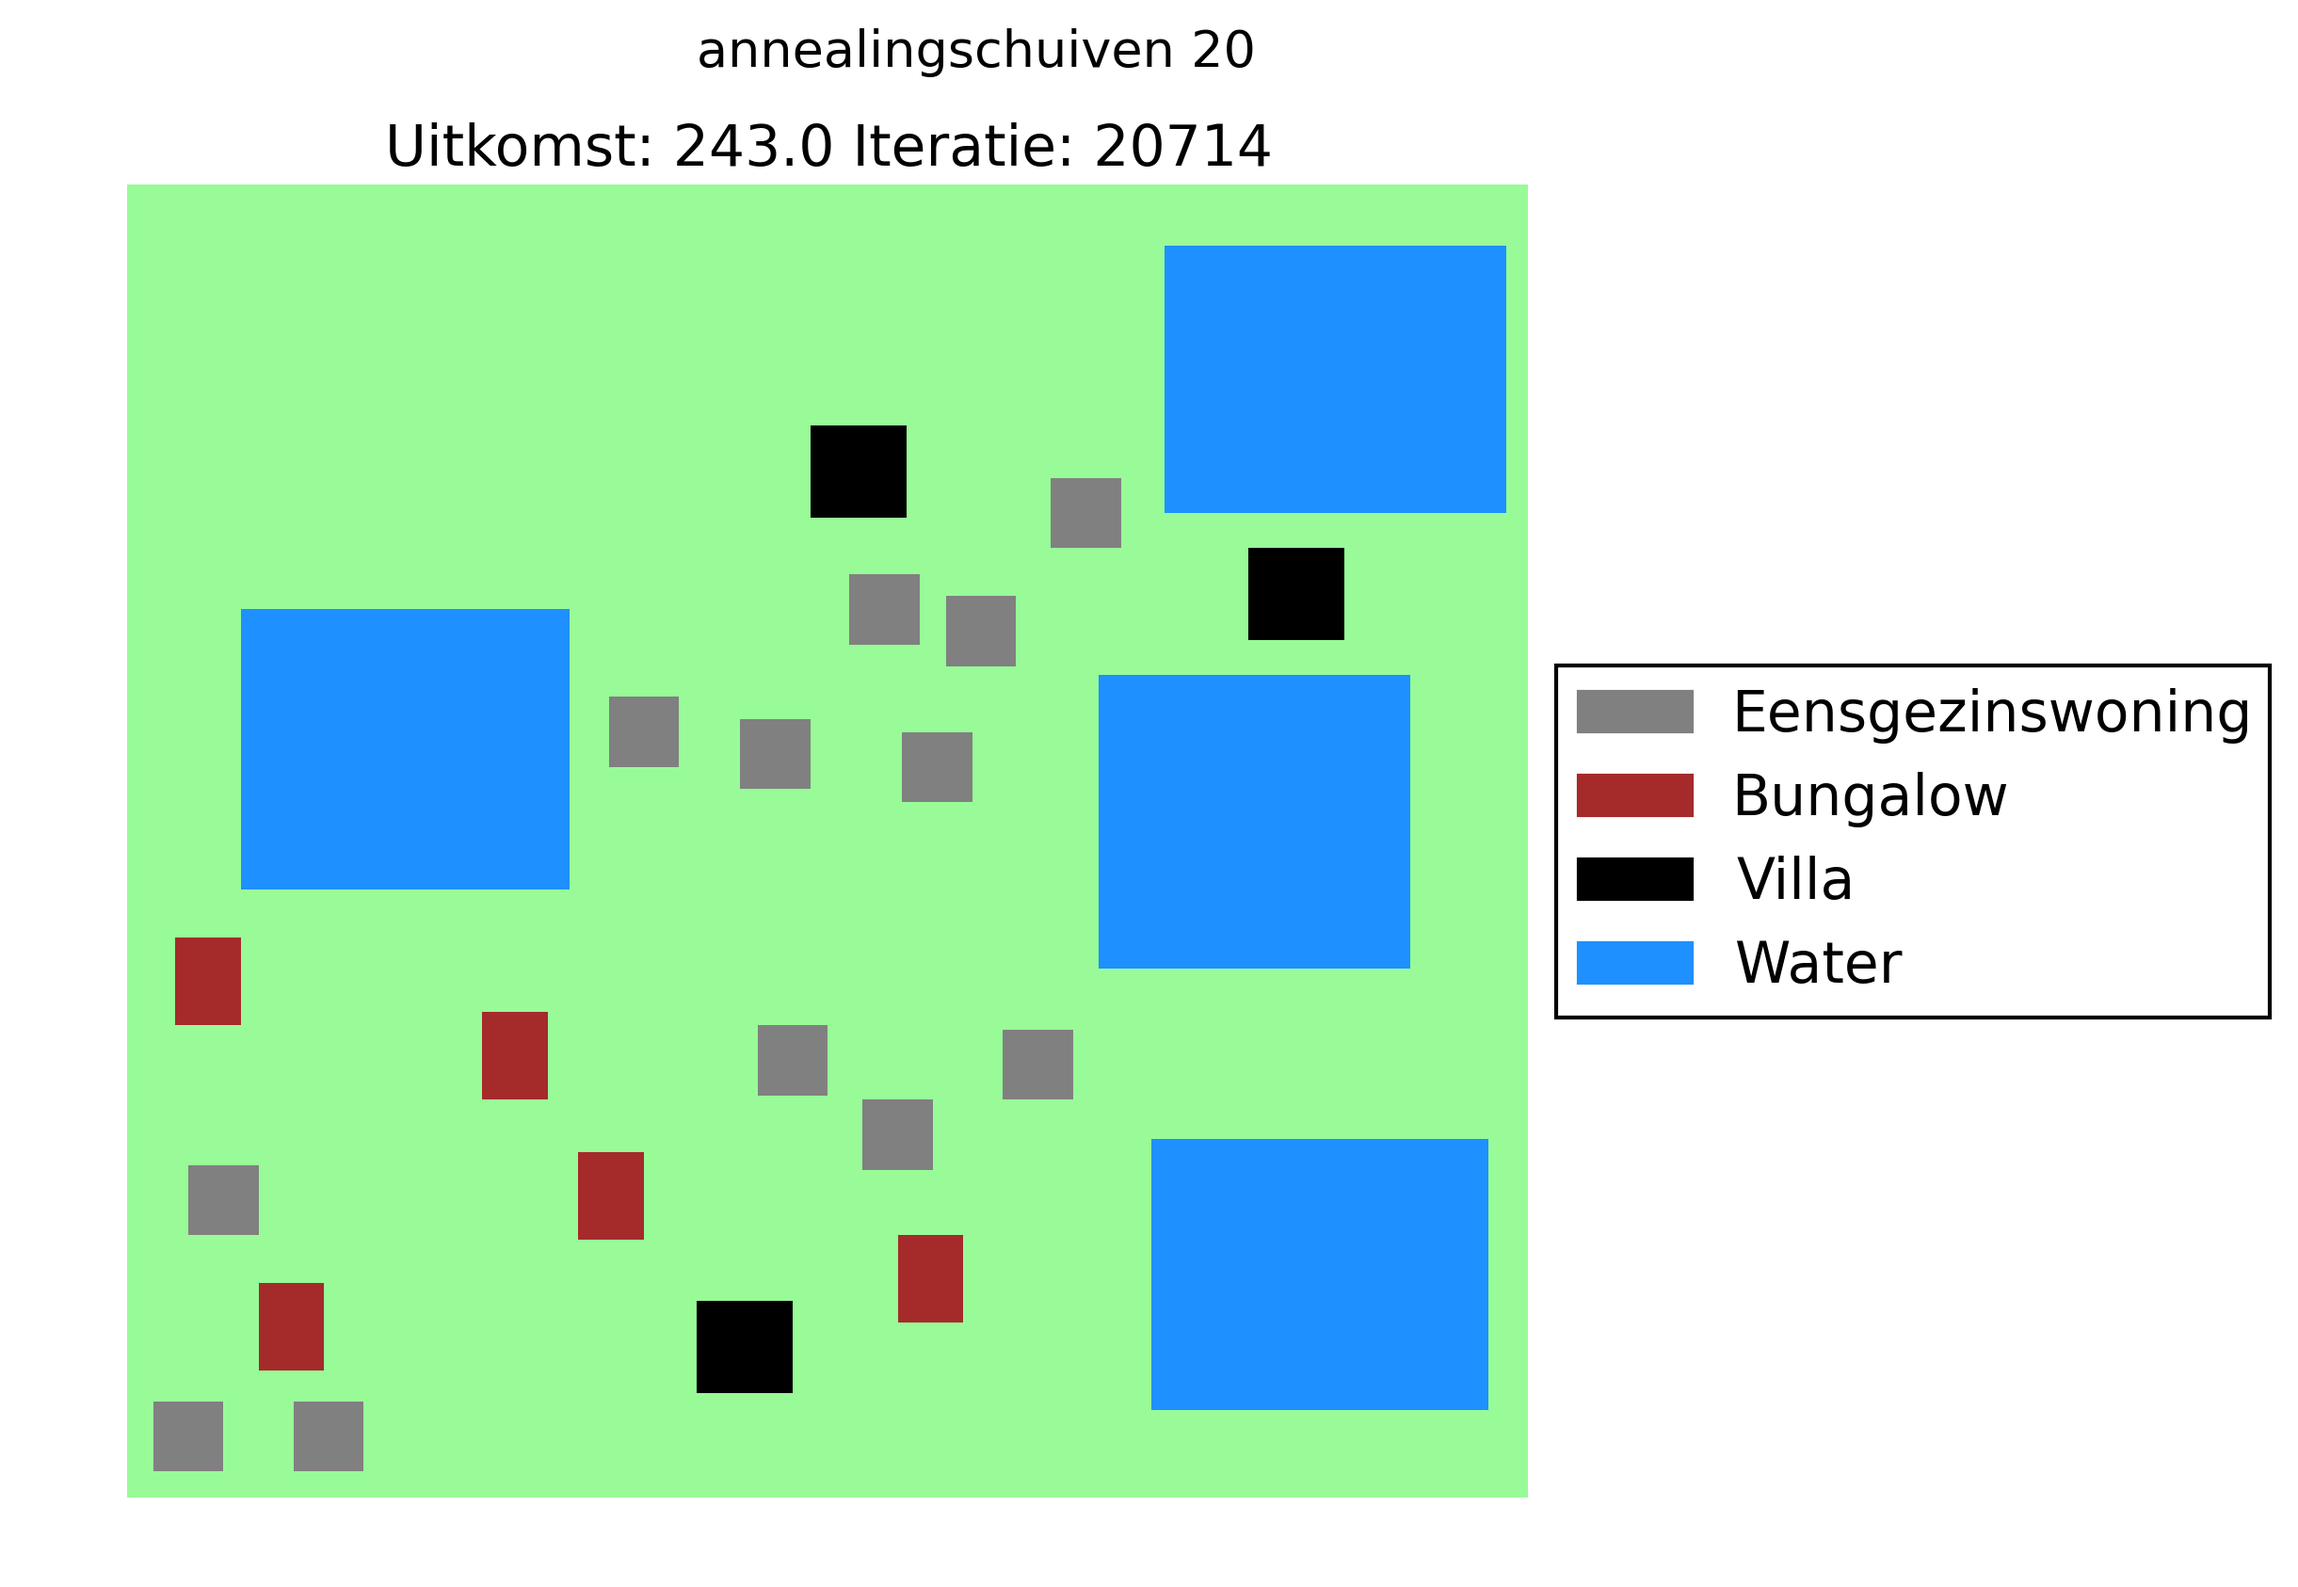
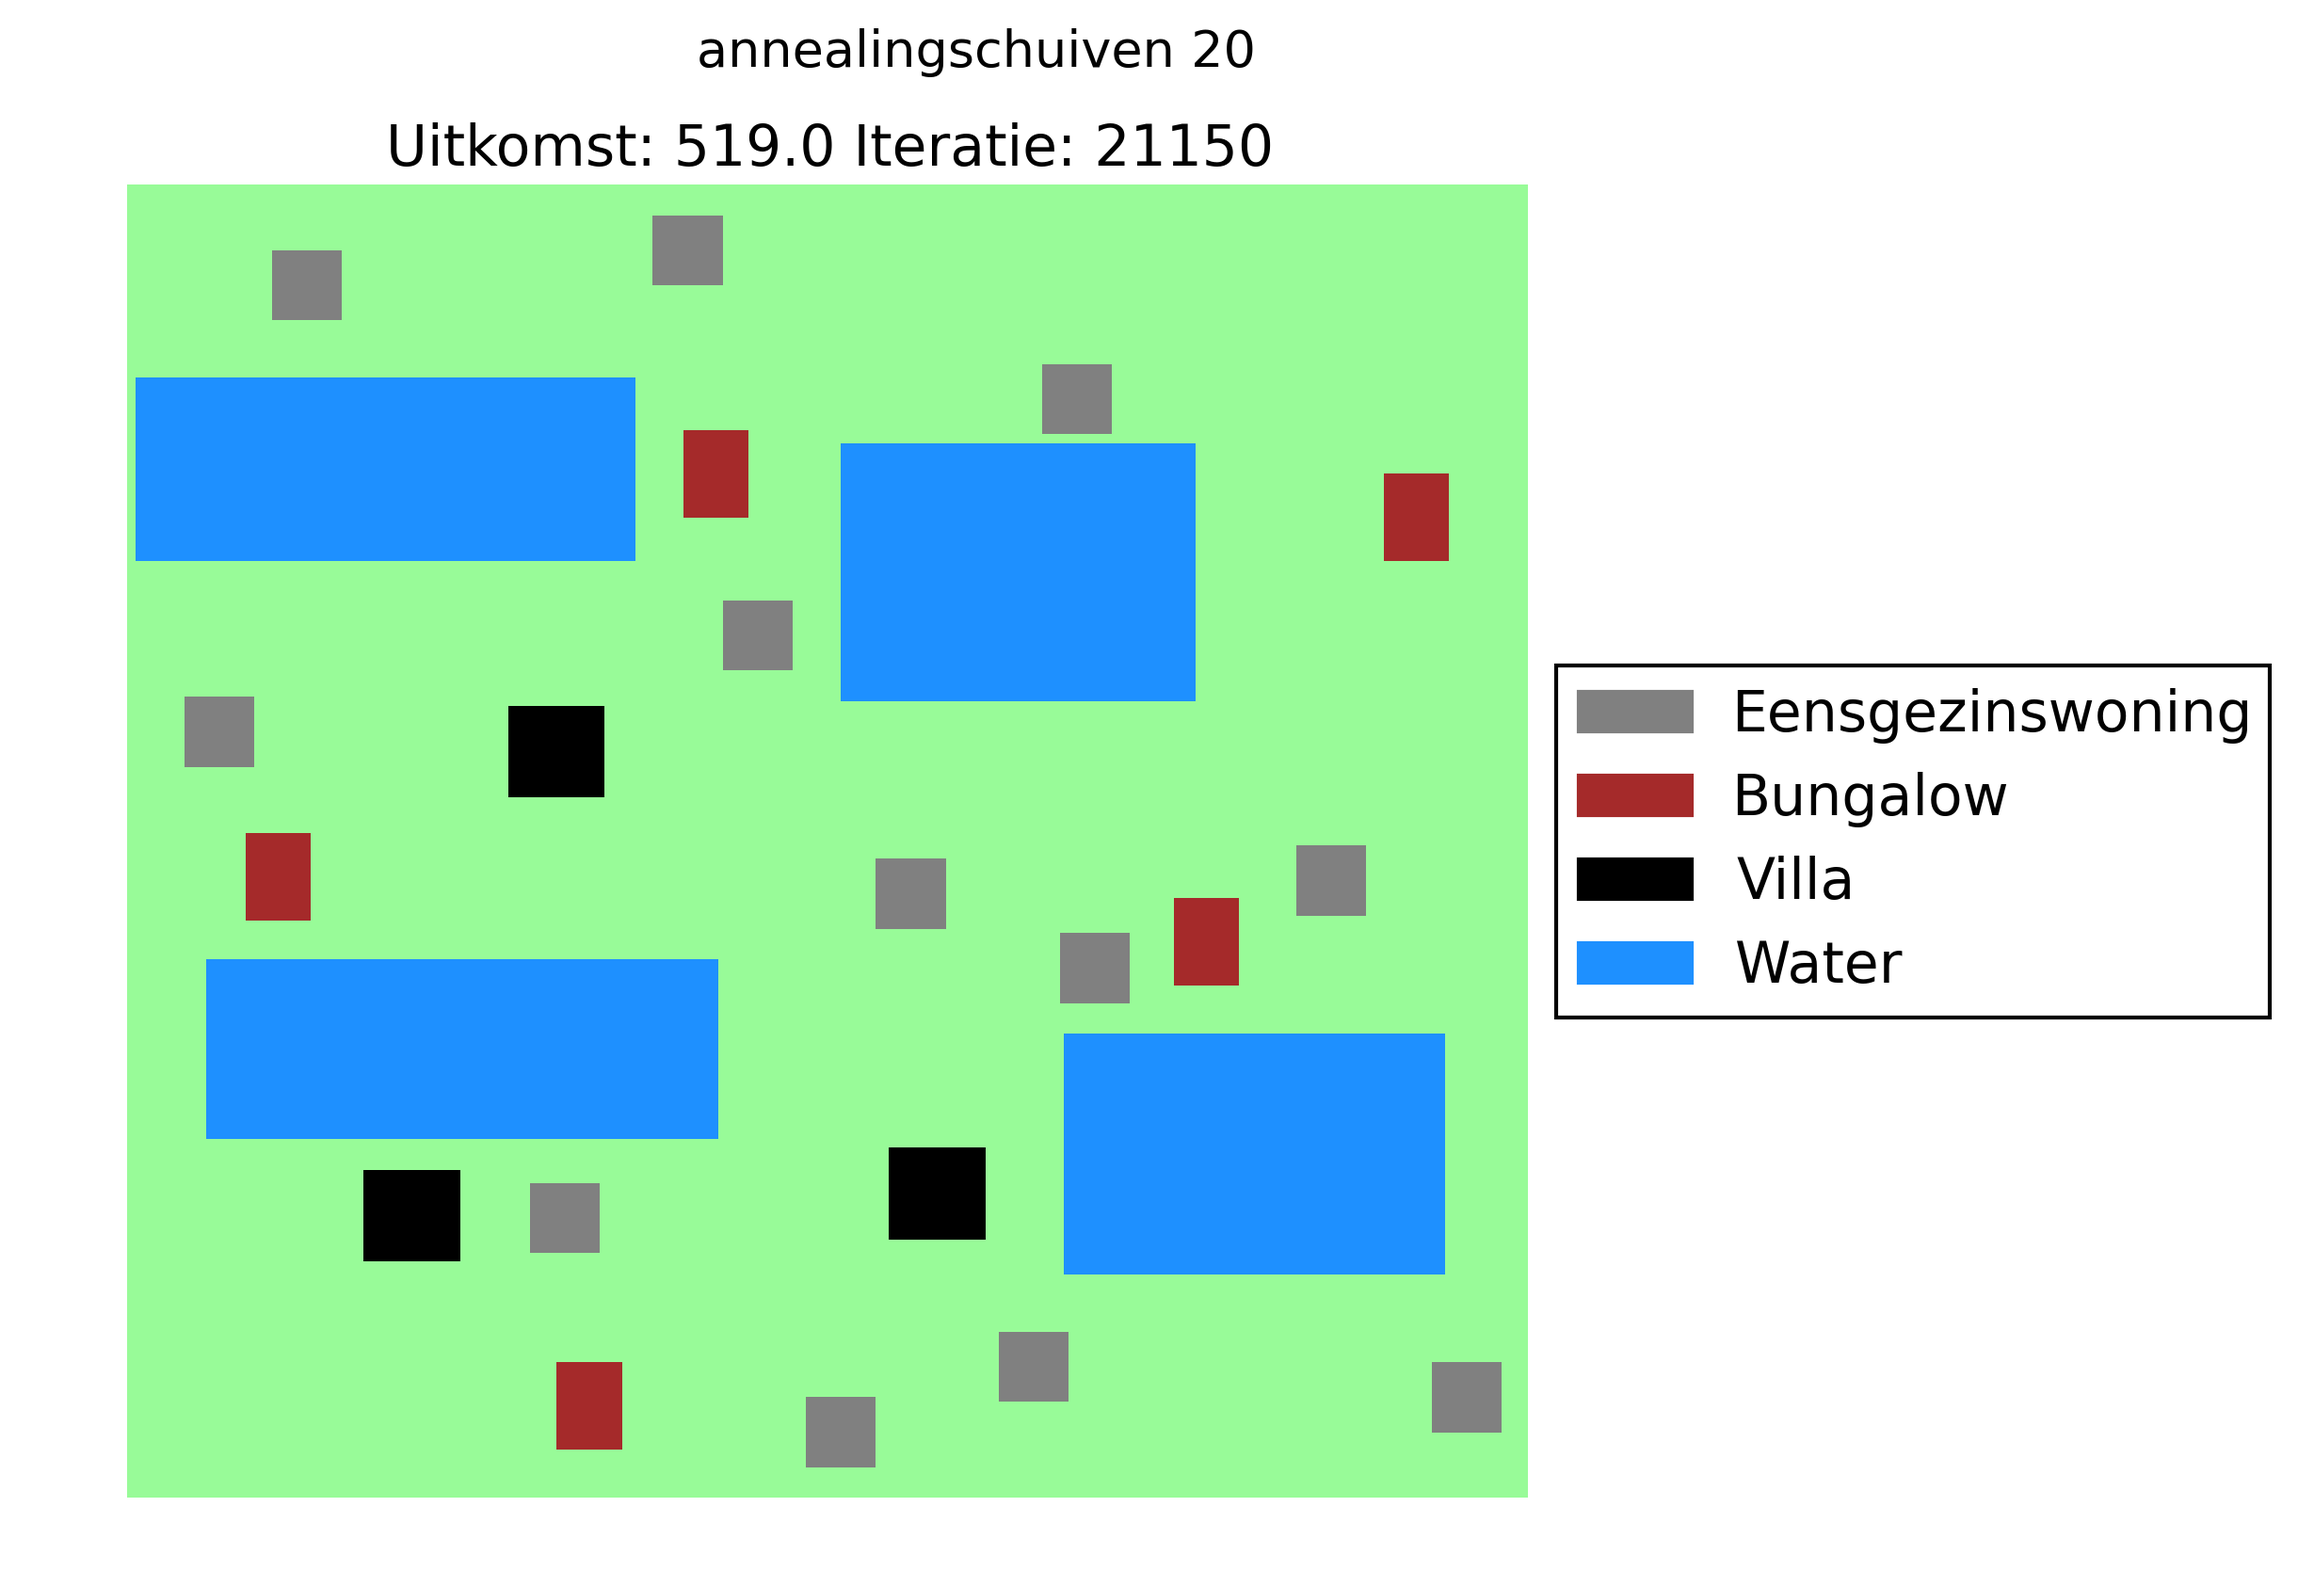
annealing werkt nu op vrijstand

diff --git a/main.py b/main.py
@@ -1,8 +1,8 @@
 #TODO: Alle grafieken e.d. goed krijgen voor alle algoritmes
-#       Alles moet lijn-grafiek + bar-chart krijgen.
-#       Alleen nog sim.annealing
+#       Sim. annealing extra chart voor specifieke kaart
+
 #TODO: uitvogelen waarden sim. annealing etc.
-#TODO: sim.annealing opnieuw draaien indien temp. onder bepaalde waarde
+
 #TODO: sim.anneal. swappen bouwen
 #       zie sim. anneal schuiven
 #TODO: sim.anneal. schuiven+swappen bouwen
@@ -11,7 +11,7 @@
 #TODO: Alles Runnen:
 #       (Vraag desnoods familie/vrienden of zij het programma kunnen draaien een nachtje)
 #       (Indien nodig kan ik wel een handleiding maken)
-#           Randsample waarde:                                      60(Kayleigh)
+#           Randsample waarde:                                      60(Jordi)
 #           Swappen vrijstand:                      40              60
 #           Swappen waarde:         20(Nu bezig)    40              60
 #           Schuiven+Swappen vrijstand: 20, 40, 60
@@ -77,12 +77,12 @@ def annealingKans(nieuw, oud, temperatuur):
         kans = 1.0
     else:
         kans = (math.exp(verschil/temperatuur))
-    print kans
+    #print kans
     return kans
 
 # toegestane opties command line arguments
 toegestanehuizen = [20,40,60]
-toegestanemethoden = ["randsample", "schuiven", "swappen", "annealingschuiven", "schuifswap" ]
+toegestanemethoden = ["randsample", "schuiven", "swappen", "annealingschuiven", "schuifswap"]
 toegestanescore = ["waarde", "vrijstand"]
 
 aantalhuizen = int(sys.argv[1])
@@ -96,9 +96,9 @@ verwerpen = 0
 best = 0
 
 # waarden Simulated Annealing
-temperatuur = 10000
-afkoeling = 0.0003
-gestoldbij = 20
+begintemperatuur = 150
+afkoeling = 0.012
+gestoldbij = 10
 
 # 0 = scoren op vrijstand; 1 = scoren op waarde in euro's
 criterium = 0
@@ -297,27 +297,42 @@ elif str(sys.argv[2]) == "schuifswap":
 
 elif str(sys.argv[2]) == "annealingschuiven":
     plt.title('Amstelhaege Simulated Annealing Schuiven')
-    combinatie = createRandom()
-    oldcombi = copy.deepcopy(combinatie)
     while True:
-        iteratie += 1
-        if schuiven(combinatie) == True:
-            combinatie.evalueer()
-            kans = annealingKans(combinatie.evaluatie[criterium], oldcombi.evaluatie[criterium], temperatuur)
-            if random.random() < kans:
-                # bewaar nieuwe combinatie
-                oldcombi = copy.deepcopy(combinatie)
-            else:
-                # houd oude combi
-                combinatie = copy.deepcopy(oldcombi)
+        combinatie = createRandom()
+        oldcombi = copy.deepcopy(combinatie)
+        temperatuur = begintemperatuur
+        huidigewaarden = []
+        huidigeiteraties = []
+        while temperatuur > gestoldbij:
+            update = False
+            iteratie += 1
+            if iteratie%4500 == 0:
+                update = True
+            if schuiven(combinatie) == True:
                 combinatie.evalueer()
-                temp = combinatie.evaluatie
-            hoogstewaarde = combinatie.evaluatie[criterium]
-        uitkomsten.append(hoogstewaarde)
-        iteraties.append(iteratie)
-        if temperatuur < gestoldbij:
-            mapMaken(combinatie.houses, filename, graphtitle, iteratie, hoogstewaarde)
-            updateGraph(filename, iteraties, iteratie, uitkomsten, hoogstewaarde)
-            sys.exit()
-        else:
+                kans = annealingKans(combinatie.evaluatie[criterium], oldcombi.evaluatie[criterium], temperatuur)
+                if random.random() < kans:
+                    # bewaar nieuwe combinatie
+                    oldcombi = copy.deepcopy(combinatie)
+                else:
+                    # houd oude combi
+                    combinatie = copy.deepcopy(oldcombi)
+                    combinatie.evalueer()
+                    temp = combinatie.evaluatie
+                hoogstewaarde = combinatie.evaluatie[criterium]
+            uitkomsten.append(hoogstewaarde)
+            iteraties.append(iteratie)
+            huidigewaarden.append(hoogstewaarde)
+            huidigeiteraties.append(iteratie)
             temperatuur *= 1-afkoeling
+        if best == 0:
+            best = oldcombi
+        if oldcombi.evaluatie[criterium] >= best.evaluatie[criterium]:
+            best = oldcombi
+            mapMaken(best.houses, filename, graphtitle, iteratie, hoogstewaarde)
+            updateGraph(filename + "single", huidigeiteraties, iteratie, huidigewaarden, hoogstewaarde)
+            updateGraph(filename, iteraties, iteratie, uitkomsten, hoogstewaarde)
+        index = int(combinatie.evaluatie[criterium] / waardeperbakje)
+        bakjes[index] += 1
+        if update == True:
+            createBarChart(determineRange(bakjes), waardeperbakje, filename, graphtitle, criterium, iteratie)
